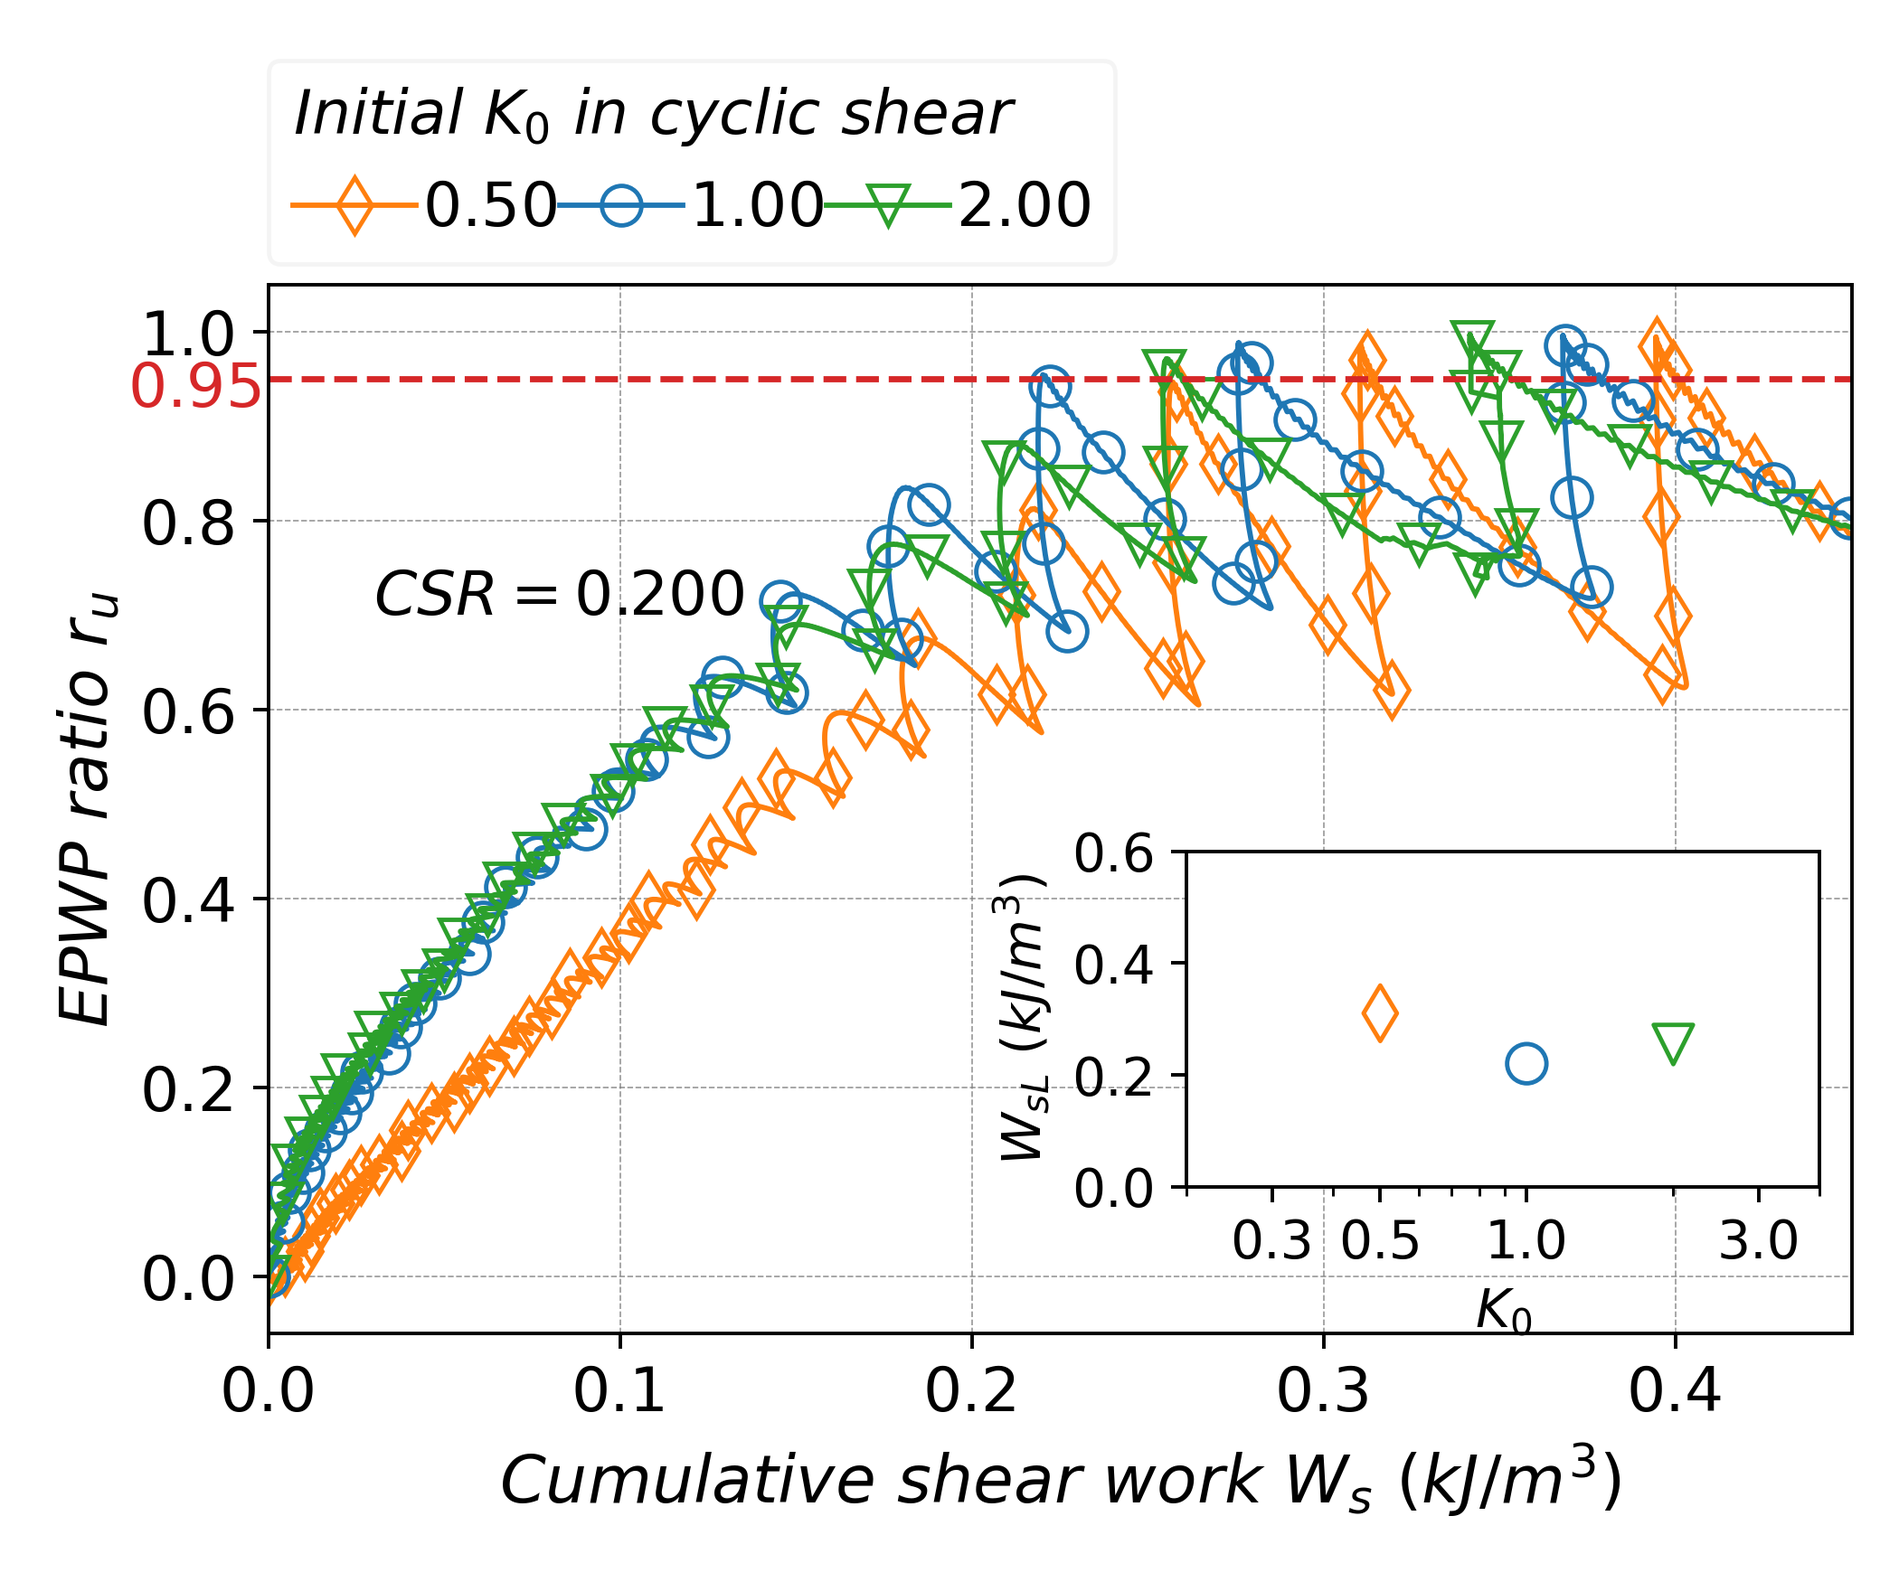
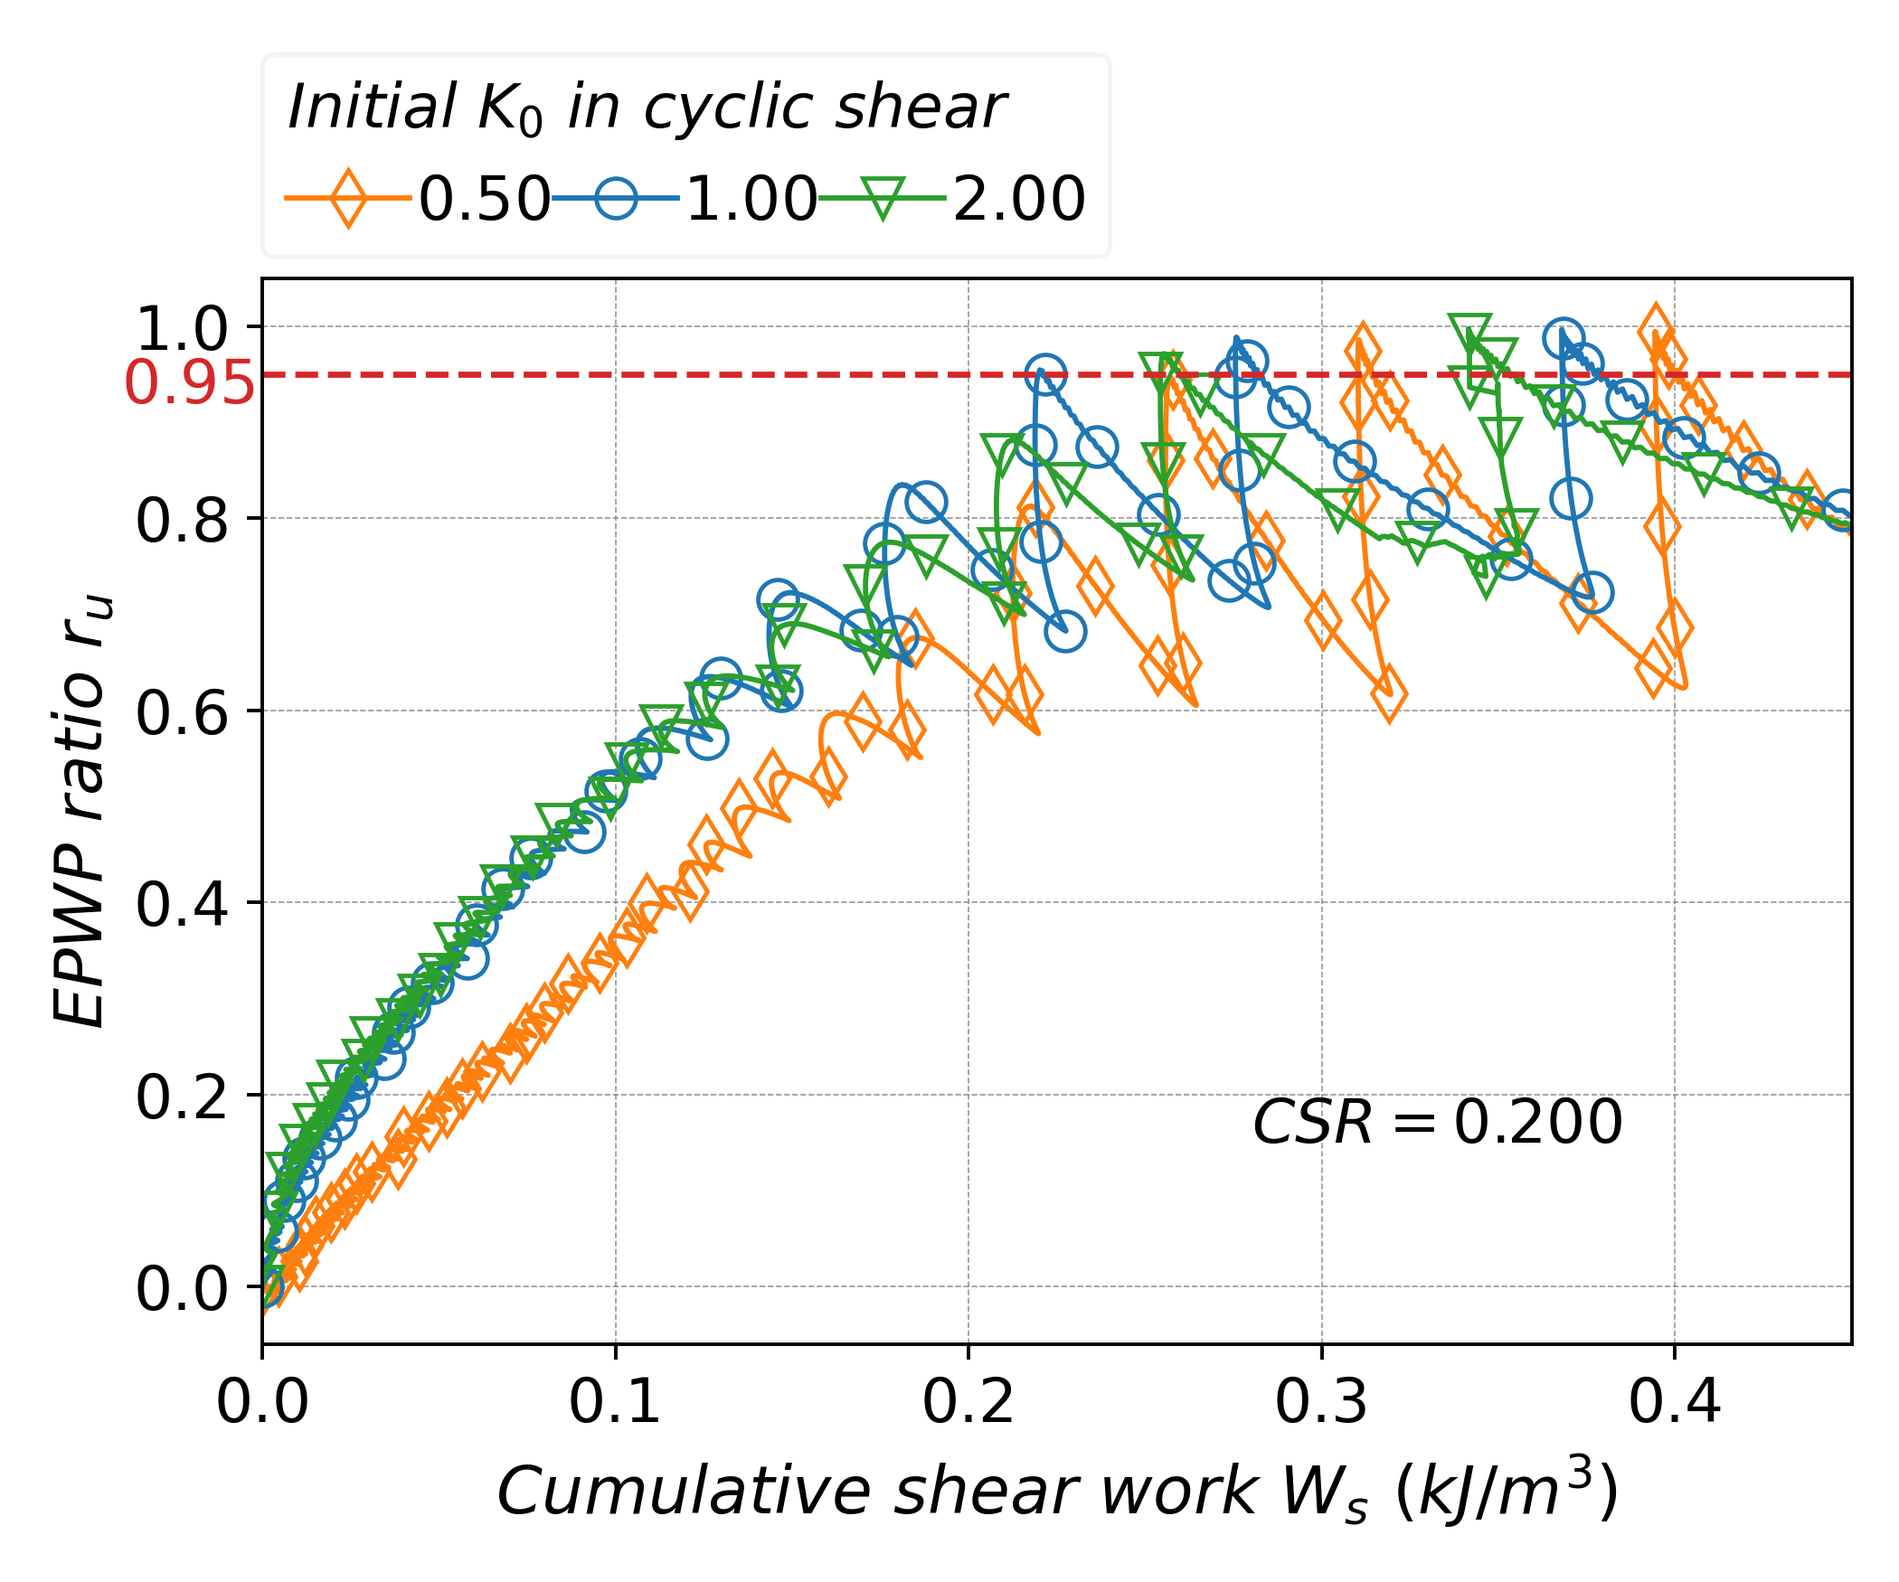
papers/thesis: refine Section 3.2 energy interpretation and remove W_sL inset
- Add transition sentence bridging Section 3.2 to 3.3 (stiffness → particle contacts)
- Merge (a)(b) description, include all three K0 states in r_u ordering
- Fix "reverses" logic: explain normalization compresses different cycle counts
- Replace "comparable total W_s" with "common progression" (W_sL not truly comparable)
- Remove W_sL vs K0 inset from Fig (d) and thesis combined figure
- Move CSR annotation to lower right after inset removal
- Sync thesis markdown with paper changes

diff --git a/papers/sdee-k0-anisotropy/sections/03_results_discussion.tex b/papers/sdee-k0-anisotropy/sections/03_results_discussion.tex
@@ -106,9 +106,9 @@ Figure~\ref{fig:energy_work} summarizes the evolution of $\ru$ and $W_s$ for the
   \label{fig:energy_work}
 \end{figure*}
 
-Figure~\ref{fig:energy_work}(a) shows that all three states follow a similar growth pattern in normalized coordinates, but the compression-state specimen (\Kzero{} = 0.5) consistently exhibits lower $\ru$ than the extension-state specimen (\Kzero{} = 2.0) over the intermediate stage of the liquefaction process. Figure~\ref{fig:energy_work}(b) shows a similar convergence pattern in normalized cumulative shear work, suggesting that the total shear work required to trigger liquefaction is comparable among the three states when viewed against normalized cycle progression.
+In normalized coordinates (Fig.~\ref{fig:energy_work}(a,\,b)), both $\ru$ and $W_s$ follow similar growth patterns across the three \Kzero{} states and converge as liquefaction is approached, indicating that the energy accumulation process follows a common progression toward liquefaction regardless of initial stress anisotropy. During the intermediate stage, however, the three states separate in $\ru$: the \Kzero{} = 0.5 specimen consistently exhibits the lowest $\ru$, the \Kzero{} = 2.0 specimen the highest, and the \Kzero{} = 1.0 specimen falls in between.
 
-However, the normalized representation obscures the actual energy input rate per cycle. In Fig.~\ref{fig:energy_work}(c), where $W_s$ is plotted against the actual cycle count $N_c$, the ordering reverses to match the liquefaction resistance trend: the \Kzero{} = 2.0 specimen accumulates energy fastest, \Kzero{} = 1.0 is intermediate, and \Kzero{} = 0.5 accumulates energy most slowly. This indicates that a key difference among anisotropic states lies in how rapidly energy is input during cyclic loading, rather than solely in the total energy required at liquefaction.
+The normalized representation, however, obscures the actual energy input rate per cycle because it compresses different numbers of cycles onto the same horizontal axis. When $W_s$ is plotted against the actual cycle count $N_c$ (Fig.~\ref{fig:energy_work}(c)), the \Kzero{} = 2.0 specimen accumulates energy fastest, \Kzero{} = 1.0 is intermediate, and \Kzero{} = 0.5 accumulates energy most slowly. This indicates that the key difference among anisotropic states lies in how rapidly energy is input per cycle, rather than in the total energy required to trigger liquefaction.
 
 Figure~\ref{fig:energy_work}(d) further shows that the \Kzero{} = 0.5 specimen exhibits a lower $\ru$ at a given $W_s$, which partially explains its greater liquefaction resistance. In contrast, the $\ru$--$W_s$ relationship does not clearly distinguish between \Kzero{} = 1.0 and 2.0 despite their different $N_L$ values. This limitation indicates that an energy-based interpretation alone is insufficient to fully explain the observed liquefaction resistance ordering.
 
@@ -130,7 +130,7 @@ V_s = \sqrt{\frac{G}{\rho_{\mathrm{sat}}}}.
 
 The loading $V_s$ is calculated from the secant modulus of the first and third quarter-periods of each cycle, and the unloading $V_s$ from the second and fourth quarter-periods. Figure~\ref{fig:vs_evolution} shows that unloading stiffness is consistently higher than loading stiffness for all three states, reflecting the hysteretic behavior of granular materials. The isotropic specimen (\Kzero{} = 1.0) exhibits the highest initial \Vs{} (approximately \SI{195}{m/s} loading, \SI{210}{m/s} unloading), while the \Kzero{} = 0.5 and 2.0 specimens have lower but comparable initial values (\SIrange{176}{180}{m/s}). Despite the similar initial stiffness of the \Kzero{} = 0.5 and 2.0 states, their subsequent degradation trajectories differ markedly: at 28 cycles, loading \Vs{} has degraded to \SI{144}{m/s} (\Kzero{} = 0.5), \SI{108}{m/s} (\Kzero{} = 1.0), and \SI{62}{m/s} (\Kzero{} = 2.0). Stiffness degrades slowest for \Kzero{} = 0.5 and fastest for \Kzero{} = 2.0.
 
-These different degradation rates provide a unified macroscopic explanation for the liquefaction resistance ordering. The \Kzero{} = 0.5 specimen maintains higher stiffness for longer, develops smaller strain amplitudes per cycle, and therefore accumulates shear work more gradually; the \Kzero{} = 2.0 specimen exhibits the opposite trend. This interpretation is consistent with the cycle-based energy accumulation shown in Fig.~\ref{fig:energy_work}(c) and explains why an energy-only comparison based on $\ru$--$W_s$ does not fully resolve the difference between the isotropic and extension states.
+These different degradation rates provide a unified macroscopic explanation for the liquefaction resistance ordering. The \Kzero{} = 0.5 specimen maintains higher stiffness for longer, develops smaller strain amplitudes per cycle, and therefore accumulates shear work more gradually; the \Kzero{} = 2.0 specimen exhibits the opposite trend. This interpretation is consistent with the cycle-based energy accumulation shown in Fig.~\ref{fig:energy_work}(c) and explains why an energy-only comparison based on $\ru$--$W_s$ does not fully resolve the difference between the isotropic and extension states. However, stiffness degradation itself is a consequence of evolving particle contacts; why different \Kzero{} states degrade at different rates requires a microscopic explanation.
 
 \subsection{Microscopic fabric interpretation}
 \label{subsec:micro_fabric_results}

diff --git a/torsionSim/cyclic_shear/acc_energy_EPWP.py b/torsionSim/cyclic_shear/acc_energy_EPWP.py
@@ -1,17 +1,11 @@
 import numpy as np
 import pandas as pd
 import matplotlib.pyplot as plt
-from pylab import style as st
-from matplotlib.ticker import MultipleLocator, FormatStrFormatter
-from mpl_toolkits.axes_grid1.inset_locator import (inset_axes, InsetPosition,
-                                                  mark_inset)
 from pathlib import Path
 
 BASE_DIR = Path(__file__).resolve().parent
 
 # setting style
-csr_arr = np.arange(0.200, 0.250, 0.05).tolist()
-# csr_arr.append(0.235)
 k0s = [0.5, 1.0, 2.0]
 markers = ['d', 'o', 'v']
 colors = ['tab:orange', 'tab:blue', 'tab:green']
@@ -19,18 +13,9 @@ FS_LABEL = 15
 FS_TICK = 14
 FS_LEGEND = 14
 FS_ANN = 14
-FS_INSET = 12
 
 fig1 = plt.figure(figsize=(6.0, 5.))
 ax1 = plt.gca()
-plt.annotate(r"$CSR=0.200$", xy=(0.03, 0.7), fontsize=FS_ANN)
-ax2 = plt.axes([0,1,0,1])
-ax2.set_xlim((0.2, 4.0))
-ax2.set_ylim(0.0, 0.6)
-
-# Manually set the position and relative size of the inset axes within ax1
-ip = InsetPosition(ax1, [0.58, 0.14, 0.4, 0.32])
-ax2.set_axes_locator(ip)
 
 
 def plot_acc_energy(k0, color, marker, csr=0.200):
@@ -79,11 +64,6 @@ def plot_acc_energy(k0, color, marker, csr=0.200):
 		markevery=0.012*np.log(n_liq*2), markersize=9,
 		label=r"$%.2f$"%(k0), 
 		)
-	draw_ws_liq(k0, ws_liq, color, marker)
-
-def draw_ws_liq(k0, ws_liq, color, marker):
-	ax2.scatter([k0], [ws_liq], color=color, marker=marker, 
-		facecolors='None', s=80)
 
 # plot_acc_strain('1.0')
 for k0, marker, color in zip(k0s, markers, colors):
@@ -109,13 +89,7 @@ ax1.plot((0.0, 0.45),(0.95, 0.95),
 	color='tab:red', linestyle='dashed', linewidth=1.4)
 ax1.text(-0.04, 0.92, r"$0.95$", color='tab:red',
 	fontsize=FS_ANN)
-ax2.set_ylabel(r'$W_{sL}\ (kJ/m^3)$', fontsize=FS_INSET)
-ax2.set_xlabel(r'$K_0$', fontsize=FS_INSET)
-ax2.tick_params(axis='both', which='both', labelsize=FS_INSET)
-ax2.set_xscale('log')
-ticks = [0.3, 0.5, 1.0, 3.0]
-ax2.set_xticks(ticks)
-ax2.set_xticklabels(['0.3', '0.5', '1.0', '3.0'])
+ax1.annotate(r"$CSR=0.200$", xy=(0.28, 0.15), fontsize=FS_ANN)
 
 plt.tight_layout()
 plt.savefig(BASE_DIR / "acc_energy_EPWP.png",dpi=350)

diff --git a/torsionSim/cyclic_shear/fig4_12_combined.py b/torsionSim/cyclic_shear/fig4_12_combined.py
@@ -10,9 +10,6 @@ colors = ['tab:orange', 'tab:red', 'tab:blue', 'tab:purple', 'tab:green']
 fig, axes = plt.subplots(1, 3, figsize=(15.0, 4.5))
 ax_a, ax_b, ax_c = axes
 
-# inset for W_sL vs K_0
-ax_inset = inset_axes(ax_c, width="40%", height="35%", loc='lower right',
-	borderpad=2.0)
 
 def compute_and_plot(k0, color, marker, csr=0.200):
 	file_name = "Dr80/k%.2f/csr_%.3f/torsion_shear.csv" % (k0, csr)
@@ -60,9 +57,6 @@ def compute_and_plot(k0, color, marker, csr=0.200):
 		color=color, marker=marker, markerfacecolor='None',
 		markevery=mevery, markersize=9, label=label)
 
-	# inset: W_sL vs K_0
-	ax_inset.scatter([k0], [ws_liq], color=color, marker=marker,
-		facecolors='None', s=80)
 
 for k0, marker, color in zip(k0s, markers, colors):
 	compute_and_plot(k0, color, marker)
@@ -116,17 +110,6 @@ legend_c._legend_box.align = "left"
 ax_c.annotate(r"$CSR=0.200$", xy=(0.03, 0.7), fontsize=13)
 ax_c.text(0.02, 0.02, '(c)', transform=ax_c.transAxes, fontsize=14,
 	fontweight='bold', va='bottom')
-
-# inset formatting
-ax_inset.set_ylabel(r'$W_{sL}\ (kJ/m^3)$', fontsize=11)
-ax_inset.set_xlabel(r'$K_0$', fontsize=11)
-ax_inset.tick_params(axis='both', which='both', labelsize=11)
-ax_inset.set_xscale('log')
-ticks = [0.3, 0.5, 1.0, 3.0]
-ax_inset.set_xticks(ticks)
-ax_inset.set_xticklabels(['0.3', '0.5', '1.0', '3.0'])
-ax_inset.set_xlim((0.2, 4.0))
-ax_inset.set_ylim(0.0, 0.6)
 
 plt.tight_layout()
 plt.savefig("fig4_12_combined.png", dpi=350)

diff --git a/thesis/04_1_anisotropic_consolidation_sim.md b/thesis/04_1_anisotropic_consolidation_sim.md
@@ -302,11 +302,11 @@ $W_{s} = \int_{0}^{t}{\dot{\gamma_{z\theta}}\tau_{z\theta}dt}$ (4-8)
 
 Fig. 4.8(a) presents the normalized EPWP ratio evolution during cyclic shear. The three $K_{0}$ states all start from $r_{u} = 0$ and follow a similar exponential-like growth pattern. During the intermediate stage ($0.2 < N_c/N_L < 0.8$), clear divergence emerges: the $K_{0}$=0.5 specimen consistently exhibits the lowest $r_{u}$, while the $K_{0}$=2.0 specimen shows the highest. This indicates that, at equivalent proportions of their respective liquefaction processes, the pore pressure ratio accumulates more slowly under compression-state consolidation than under extension-state consolidation. As the specimens approach liquefaction ($N_c/N_L > 0.8$), however, the differences diminish as all three curves converge toward $r_{u} = 0.95$ with increasing oscillation, reflecting the progressive loss of effective stress common to all states at liquefaction.
 
-Fig. 4.8(b) shows the corresponding cumulative shear work evolution. The $W_{s}$–$N_c/N_L$ curves exhibit a similar three-stage behavior: the three states depart from the same origin, develop discernible differences during the intermediate stage—as highlighted by the inset, the $K_{0}$=0.5 specimen accumulates slightly more energy per normalized cycle while the $K_{0}$=1.0 specimen accumulates the least—and then converge again as the specimens approach liquefaction, indicating that the total shear work required to trigger liquefaction $W_{sL}$ is comparable across the three $K_{0}$ states.
+Fig. 4.8(b) shows the corresponding cumulative shear work evolution. The $W_{s}$–$N_c/N_L$ curves exhibit a similar three-stage behavior: the three states depart from the same origin, develop discernible differences during the intermediate stage—the $K_{0}$=0.5 specimen accumulates slightly more energy per normalized cycle while the $K_{0}$=1.0 specimen accumulates the least—and then converge again as the specimens approach liquefaction, indicating that the energy accumulation process follows a common progression toward liquefaction regardless of initial stress anisotropy.
 
 It is worth noting that the ordering of $W_{s}$ in the normalized plot (Fig. 4.8(b))—$K_{0}$=0.5 highest, $K_{0}$=2.0 intermediate, $K_{0}$=1.0 lowest—does not directly reflect the per-cycle energy input rate, because the normalization compresses different numbers of actual cycles onto the same horizontal axis. Fig. 4.8(c) presents the cumulative shear work against the actual number of cycles $N_c$, where the ordering reverses to match the liquefaction resistance: the $K_{0}$=2.0 specimen accumulates energy fastest, the $K_{0}$=1.0 specimen is intermediate, and the $K_{0}$=0.5 specimen is the slowest. This is consistent with expectations, as lower liquefaction resistance corresponds to faster energy accumulation per cycle.
 
-Inspired by the energy-based approach of Towhata and Ishihara (1985), Fig. 4.8(d) examines whether the $r_{u}$–$W_{s}$ relationship can explain the observed differences in liquefaction resistance among the three $K_{0}$ states. The $K_{0}$=0.5 specimen exhibits a distinctly lower $r_{u}$ at any given $W_{s}$ compared to the other two states, which partially explains its higher liquefaction resistance—the compression-state fabric requires more energy input to generate the same level of pore pressure ratio. However, when comparing $K_{0}$=1.0 and $K_{0}$=2.0, no clear distinction emerges in the $r_{u}$–$W_{s}$ relationship despite their different liquefaction resistance (Fig. 4.7), limiting the explanatory power of this energy-based approach. It should be noted that the comparison has inherent limitations: Towhata and Ishihara (1985) demonstrated a unique $W_{s}$–$u$ relationship for specimens under the same isotropic initial consolidation state but subjected to different shear stress paths, whereas the present study compares specimens with different initial stress anisotropies under the same loading path. Moreover, the quantity compared here is $r_{u}$ (EPWP normalized by the initial lateral stress) rather than the absolute pore water pressure $u$, and the different initial stress states result in different normalization bases. These factors suggest that the energy-based interpretation alone is insufficient to fully account for the $K_0$ effect on liquefaction resistance. The inset of Fig. 4.8(d) shows the shear work required to trigger liquefaction $W_{sL}$. Although the three $K_{0}$ states exhibit slightly different $W_{sL}$ values, these differences are largely attributable to the sensitivity of the liquefaction criterion: near liquefaction, the net shear work per cycle increases dramatically due to the widening hysteresis loops, so that a minor shift in the cycle at which $r_{u}$ first exceeds 0.95 can lead to appreciable differences in the computed $W_{sL}$. Given the convergence of the $W_{s}$–$N_c/N_L$ curves observed in Fig. 4.8(b), the total shear work required to trigger liquefaction is considered to be essentially independent of initial stress anisotropy.
+Inspired by the energy-based approach of Towhata and Ishihara (1985), Fig. 4.8(d) examines whether the $r_{u}$–$W_{s}$ relationship can explain the observed differences in liquefaction resistance among the three $K_{0}$ states. The $K_{0}$=0.5 specimen exhibits a distinctly lower $r_{u}$ at any given $W_{s}$ compared to the other two states, which partially explains its higher liquefaction resistance—the compression-state fabric requires more energy input to generate the same level of pore pressure ratio. However, when comparing $K_{0}$=1.0 and $K_{0}$=2.0, no clear distinction emerges in the $r_{u}$–$W_{s}$ relationship despite their different liquefaction resistance (Fig. 4.7), limiting the explanatory power of this energy-based approach. It should be noted that the comparison has inherent limitations: Towhata and Ishihara (1985) demonstrated a unique $W_{s}$–$u$ relationship for specimens under the same isotropic initial consolidation state but subjected to different shear stress paths, whereas the present study compares specimens with different initial stress anisotropies under the same loading path. Moreover, the quantity compared here is $r_{u}$ (EPWP normalized by the initial lateral stress) rather than the absolute pore water pressure $u$, and the different initial stress states result in different normalization bases. These factors suggest that the energy-based interpretation alone is insufficient to fully account for the $K_0$ effect on liquefaction resistance.
 
 #### Shear wave velocity evolution
 
